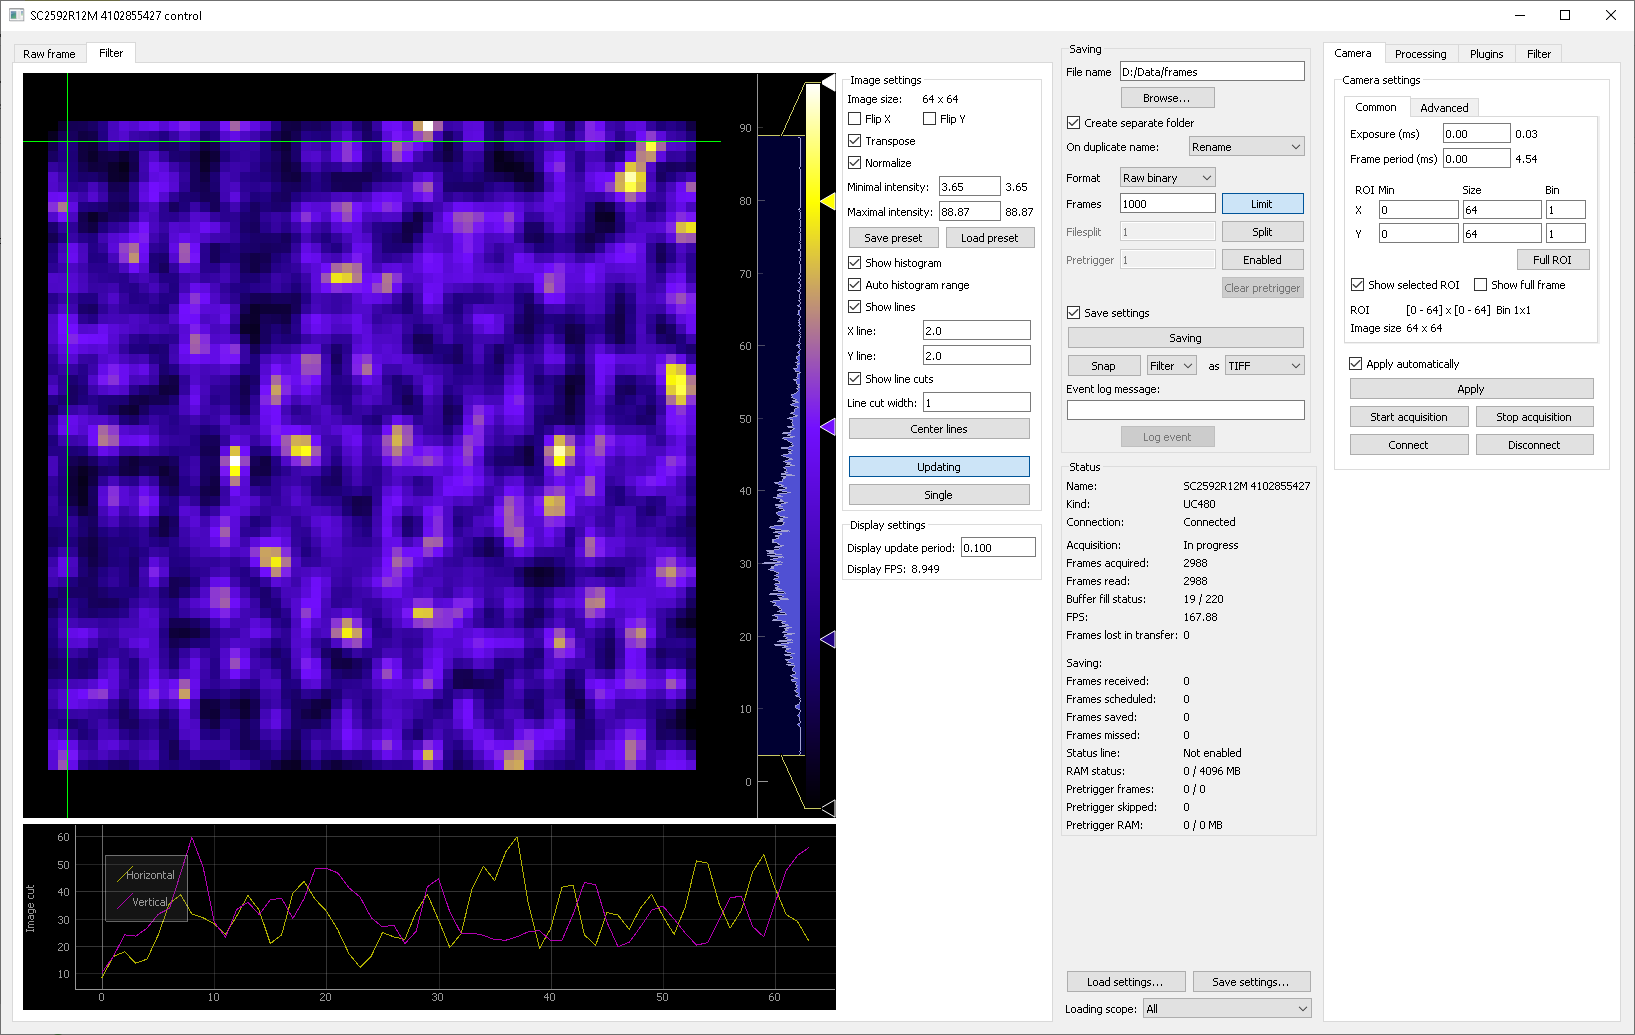
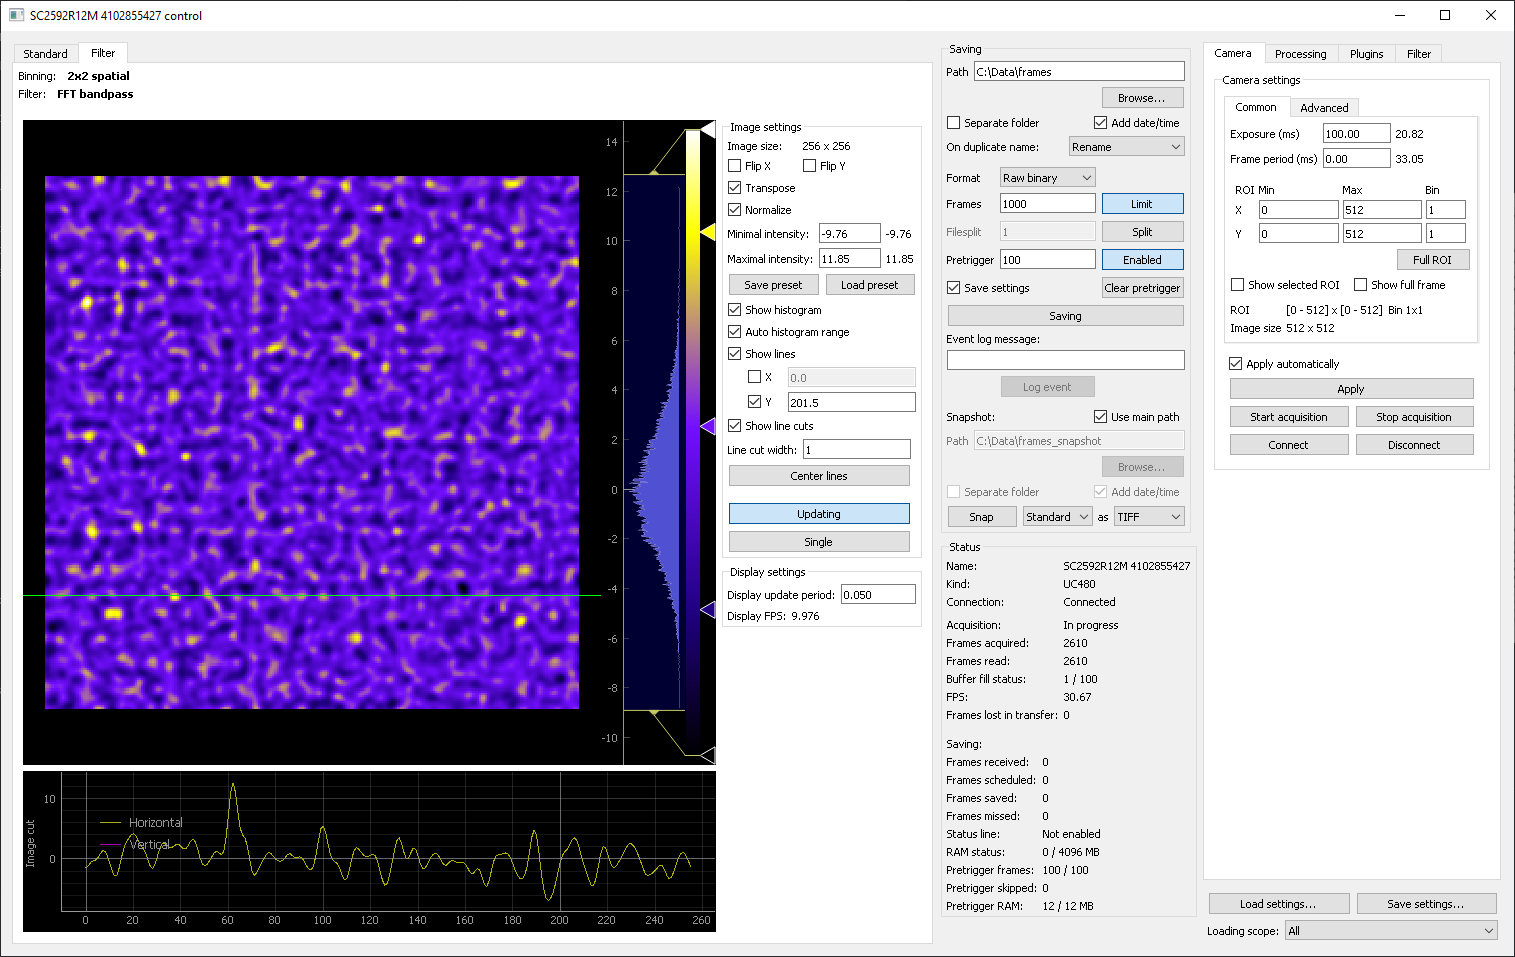
Docs update

diff --git a/docs/interface.rst b/docs/interface.rst
@@ -68,6 +68,7 @@ Image display
 
 The image control is based on `pyqtgraph <http://www.pyqtgraph.org/>`_ ``ImageView`` control, which is used for displaying the image and the intensity histogram. In addition, there are some controls to change the image appearance and to enable additional features:
 
+- ``Binning``, ``Background subtraction``, ``Filter``, etc.: quick overview of all processing steps for the displayed frame
 - ``Image size``: displays image size in pixels
 - ``Flip X``, ``Flip Y``, ``Transpose``: correspondingly, flips the image along the given axis, or transposes it (flips along the diagonal); note that these settings only affect display, and do not change the way images are saved
 - ``Normalize``: controls whether the image levels are automatically normalized to cover the full image range, or if they stay fixed
@@ -96,17 +97,21 @@ Saving control
 Here the :ref:`saving <pipeline_saving>` parameters, such as path, format, and number of frames to save, are controlled:
 
 - ``File name``: path for saving the frames. If the containing folder does not exist, it is created automatically; if the extension is not specified, it is added automatically. Note that if ``Add date/time`` is activated, the actual path will be somewhat different.
-- ``Create separate folder``: if activated, then the supplied path is treated as a folder, and all of the data is stored inside under standard names (``frames.bin`` or ``frames.tiff`` for main frames data, ``settings.dat`` for settings, etc.) This option allows for better data organizing when each dataset has multiple files (e.g., main data, settings, frame info, background, several split files).
+- ``Separate folder``: if activated, then the supplied path is treated as a folder, and all of the data is stored inside under standard names (``frames.bin`` or ``frames.tiff`` for main frames data, ``settings.dat`` for settings, etc.) This option allows for better data organizing when each dataset has multiple files (e.g., main data, settings, frame info, background, several split files).
 - ``Add date/time``: if activated, create a unique name by appending current date and time to the specified path. By default, the date and time are added as a suffix, but this behavior can be changed in the :ref:`settings file <settings_file_general>`.
 - ``On duplicate name``: determines what happens if the files with the specified name already exists; can be ``Rename`` (add a numeric suffix to make a new unique name), ``Overwrite`` (overwrite the existing data), or ``Append`` (append the existing data)
 - ``Format``: saving format; so far, only raw binary and Tiff are supported
 - ``Frames limit``: if activated, only save the given number of frames; otherwise, keep streaming data until saving is manually stopped
 - ``Filesplit``: if activated, saved frames are split into separate files of the specified size instead of forming a single large file; this is useful when continuously acquiring very large amounts of data to avoid creating huge files
 - ``Pretrigger``: set up the :ref:`pretrigger <pipeline_saving_pretrigger>` buffer size
+- ``Clear pretrigger``: clear the accumulated pretrigger buffer
 - ``Save settings``: if checked, then in addition to the frame saves a text file containing all of the related information: camera settings, GUI state, frame counters, frame shape and data format, etc. Highly recommended to use.
 - ``Saving``: the main button which initiates and stops data streaming; while streaming, changing of any other saving parameters is not allowed
-- ``Snap``: pressing it saves a single :ref:`snapshot <pipeline_saving_snapshot>` image from the specified source (usually either ``Standard`` or ``Filter``); here one can also specify the resulting image format
 - ``Event log``: it is possible to create an additional "Event log" corresponding to the data file, in which various events during the data acquisition are recorded. To record a new event, enter it into the edit box and press ``Log event`` button. The event is tagged by the global OS timestamp, time since the recording start, and the frame number. The event file is automatically created when the first message is added.
+- ``Snapshot``: :ref:`snapshot <pipeline_saving_snapshot>` saving parameters
+- ``Use main path``: if checked, snapshot image path will be the same as the main image path, just with ``_snapshot`` appended to the end; all of the modifying parameters (``Separate folder`` and ``Add date/time``) are also the same
+- ``Path``, ``Separate folder``, ``Add date/time``: same meaning as above, but applied to the snapshot saving; only active if ``Use main path`` is not checked.
+- ``Snap``: pressing it saves a single  image from the specified source (usually either ``Standard`` or ``Filter``) in the specified image format
 
 
 .. _interface_save_status:

diff --git a/docs/pipeline.rst b/docs/pipeline.rst
@@ -104,7 +104,7 @@ Many high-speed cameras can generate data faster than it can be saved (about 60 
 Snapshot saving
 ~~~~~~~~~~~~~~~~~~~~~~~~~~~
 
-In addition to streaming complete data, there is an option to save the data which is currently displayed. This is done through a separate path, which is independent from the main saving routine; hence, it can be done during ongoing data streaming (albeit the name can not be changed in this case). Note that, like the standard save, the snapshot also stores all of the additional settings data, but not the frame info or the background.
+In addition to streaming complete data, there is an option to save the data which is currently displayed. This is done through a separate path, which is independent from the main saving routine; hence, it can be done during ongoing data streaming. Note that, like the standard save, the snapshot also stores all of the additional settings data, but not the frame info or the background.
 
 
 .. _pipeline_background_subtraction:

diff --git a/docs/changelog.rst b/docs/changelog.rst
@@ -1,0 +1,12 @@
+.. _changelog:
+
+Change log
+============================
+
+Version 2.0.1
+----------------------------
+
+* Changed event log format: added recorded frame number and column name header.
+* Reorganized snapshot saving controls.
+* Added processing steps indicators above the image plots.
+* Minor bug fixes.

diff --git a/docs/index.rst b/docs/index.rst
@@ -28,3 +28,4 @@ To install cam-control, download the latest version from `GitHub <https://github
    settings_file
    usecases
    troubleshooting
+   changelog
